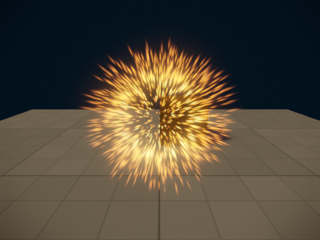
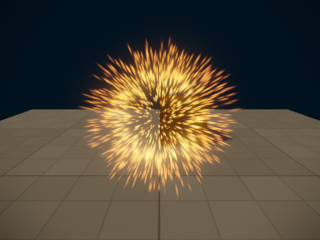
Fix for particles stretching the wrong way (#1716)

Pull request: Fix for particles stretching the wrong way
Also fixed the animation test (enabled "force dynamic" on some animated meshes).

diff --git a/Code/UnitTests/GameEngineTest/VisualScriptTest/VisualScriptTest.cpp b/Code/UnitTests/GameEngineTest/VisualScriptTest/VisualScriptTest.cpp
@@ -162,7 +162,7 @@ ezTestAppRun ezGameEngineTestVisualScript::RunSubTest(ezInt32 iIdentifier, ezUIn
 
   if (m_ImgCompFrames[m_uiImgCompIdx] == m_iFrame)
   {
-    EZ_TEST_IMAGE(m_uiImgCompIdx, bVulkan ? 300 : 250);
+    EZ_TEST_IMAGE(m_uiImgCompIdx, bVulkan ? 430 : 250);
     ++m_uiImgCompIdx;
 
     if (m_uiImgCompIdx >= m_ImgCompFrames.GetCount())

diff --git a/Data/Base/Shaders/Particles/ParticleCommonVS.h b/Data/Base/Shaders/Particles/ParticleCommonVS.h
@@ -86,7 +86,7 @@ Quad CalcQuadOutputPositionWithAlignedAxis(uint vertexIndex, float3 inPosition, 
   float3 orthoDir = normalize(cross(inTangentXws, GetCameraDirForwards()));
 
   float3 offsetRight = orthoDir * ((QuadPosOffsets[vertexIndex].x - 0.5) * inSize);
-  float3 offsetUp = axisDir * ((1.0 - QuadPosOffsets[vertexIndex].y) * inSize * stretch);
+  float3 offsetUp = axisDir * (QuadPosOffsets[vertexIndex].y * inSize * -stretch);
 
   Quad quad;
   quad.worldPosition = mul(ObjectToWorldMatrix, float4(inPosition, 1));